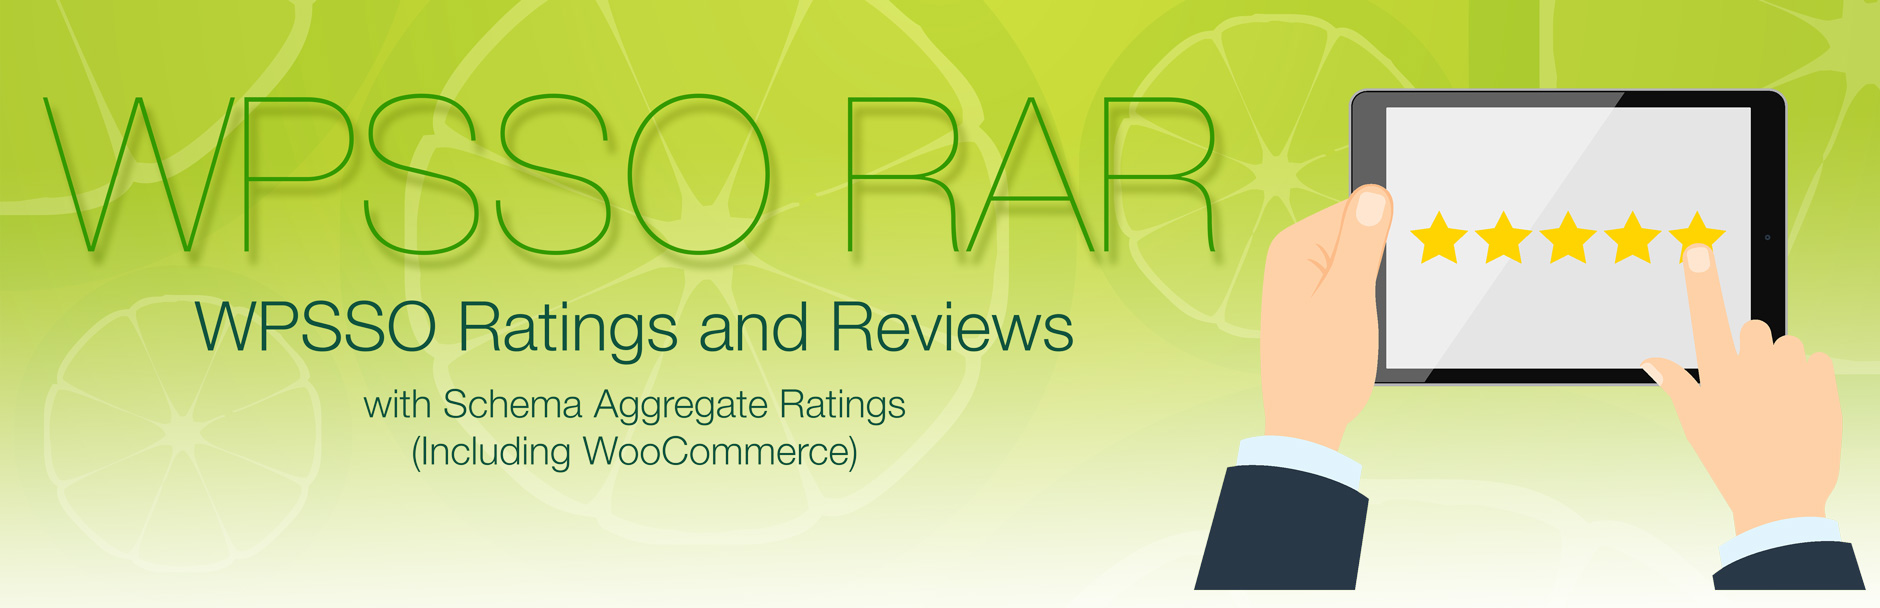
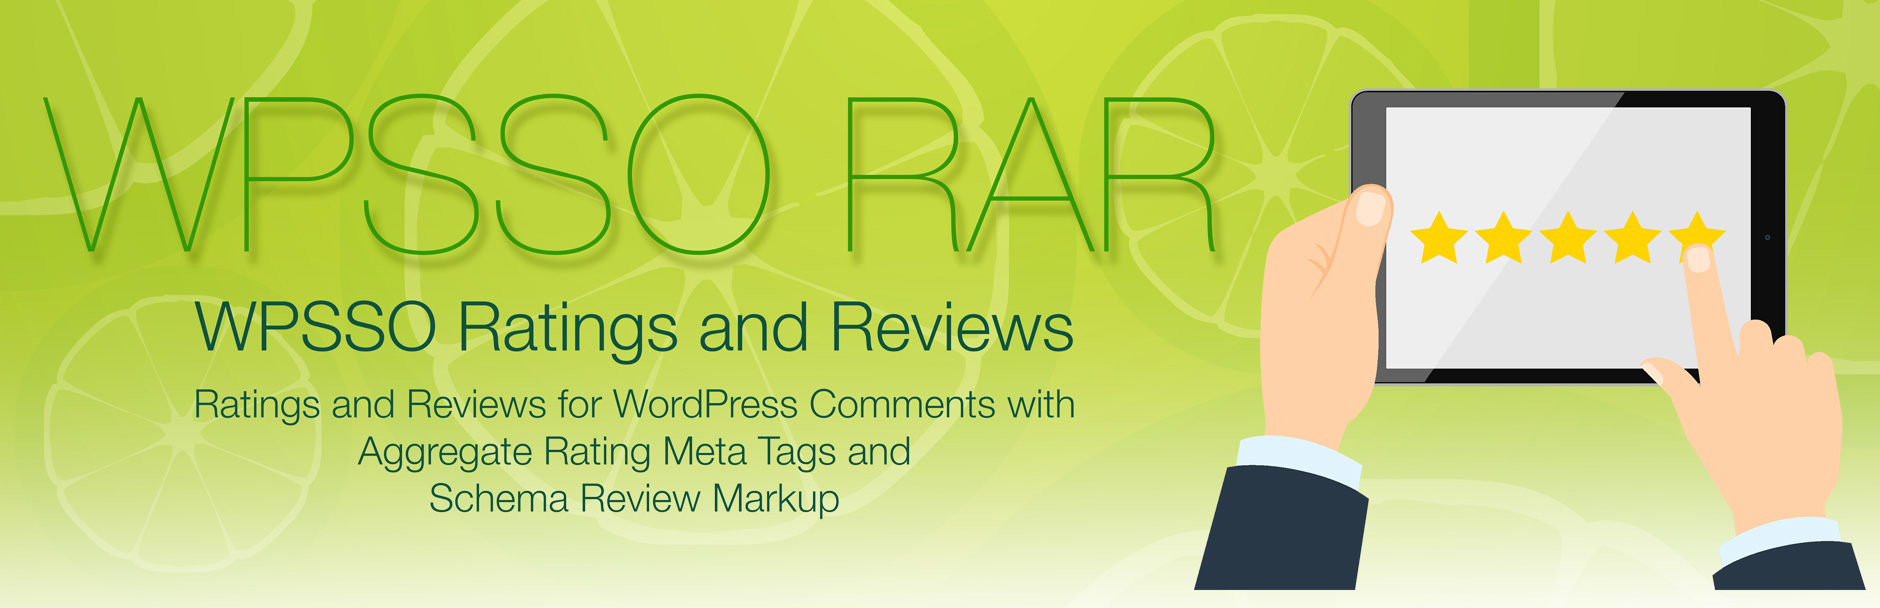
non-essential support files (documentation and assets)

diff --git a/index.html b/index.html
@@ -29,7 +29,7 @@
 
 <table>
 <tr><th align="right" valign="top" nowrap>Plugin Name</th><td>WPSSO Ratings and Reviews</td></tr>
-<tr><th align="right" valign="top" nowrap>Summary</th><td>WPSSO Core add-on provides ratings and reviews for WordPress comments with Aggregate Rating meta tags, and optional Schema Review markup.</td></tr>
+<tr><th align="right" valign="top" nowrap>Summary</th><td>WPSSO Core add-on provides ratings and reviews for WordPress comments with Aggregate Rating meta tags and Schema Review markup.</td></tr>
 <tr><th align="right" valign="top" nowrap>Stable Version</th><td>2.2.0</td></tr>
 <tr><th align="right" valign="top" nowrap>Requires At Least</th><td>WordPress 3.8</td></tr>
 <tr><th align="right" valign="top" nowrap>Tested Up To</th><td>WordPress 5.2.2</td></tr>
